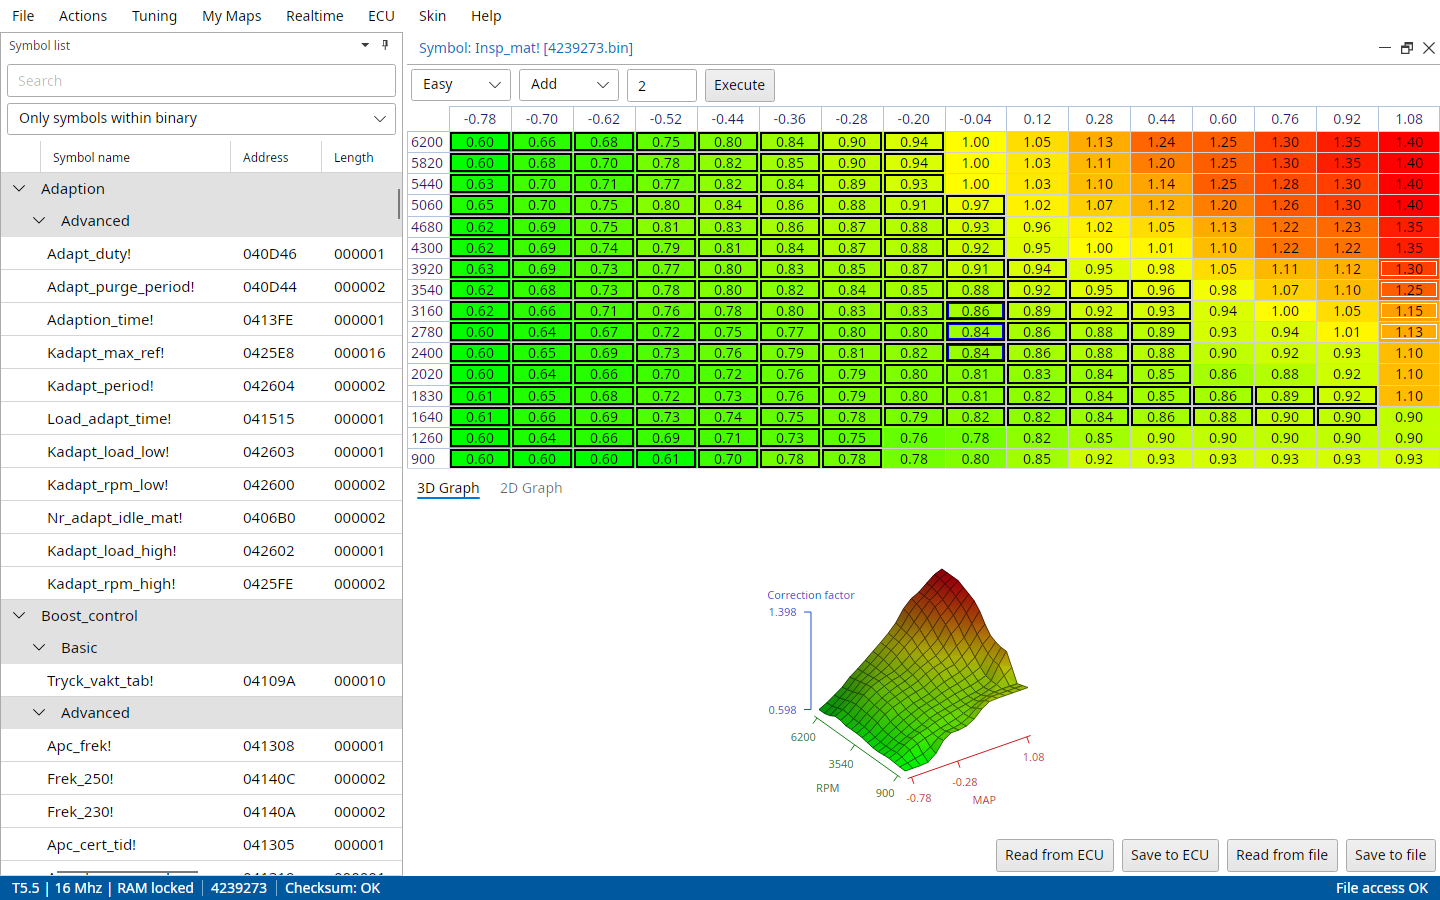
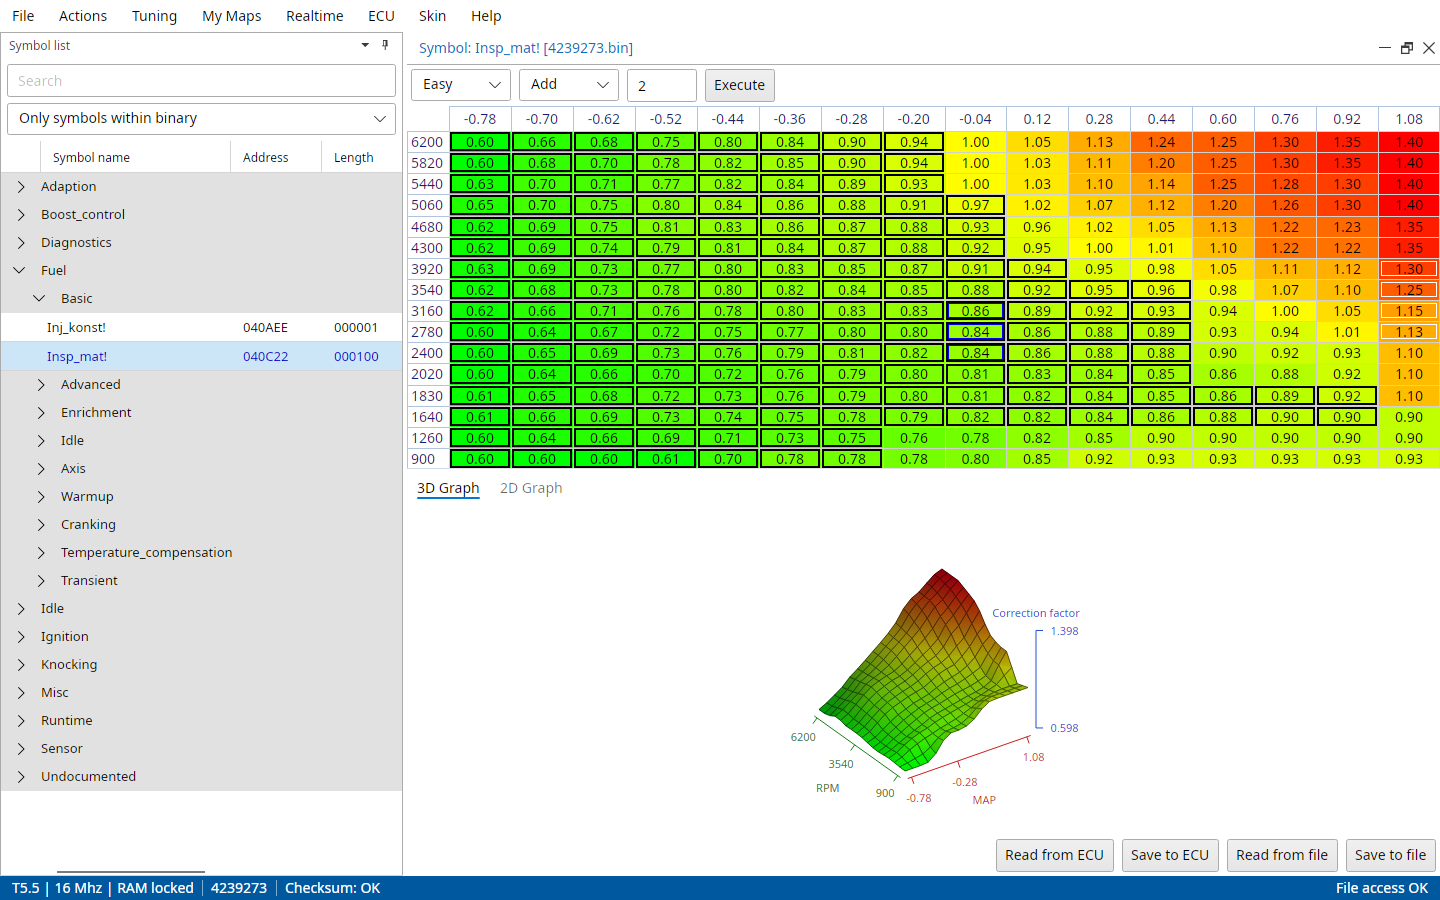
docs: README screenshots in the light and the dark skin

diff --git a/T8AppTest/Screenshots.cs b/T8AppTest/Screenshots.cs
@@ -3,6 +3,7 @@ using System.IO;
 using System.Linq;
 using Avalonia.Controls;
 using Avalonia.Headless;
+using Avalonia.Styling;
 using Avalonia.VisualTree;
 using Microsoft.VisualStudio.TestTools.UnitTesting;
 using SuiteApp.ViewModels;
@@ -25,33 +26,46 @@ namespace T8AppTest
             File.Copy(Path.Combine(Here(), "..", "T8Binaries", StockBin), file, true);
             s_session!.Dispatch(async () =>
             {
-                var vm = new T8MainWindowViewModel();
-                var window = new MainWindow { DataContext = vm, Width = 1440, Height = 900 };
-                window.Show();
-                Assert.IsTrue(await vm.OpenPlainFileAsync(file, true));
-
-                vm.OpenSymbolByName("IgnAbsCal.fi_NormalMAP");
-                Maximized(window, "mapviewer");
-
-                vm.ShowAirmassResultCommand.Execute(null);
-                Maximized(window, "airmass-table");
-                window.GetVisualDescendants().OfType<AirmassResultView>().Single().GetVisualDescendants().OfType<TabControl>().First().SelectedIndex = 1;
-                Maximized(window, "airmass-dyno");
-
-                var settings = new SettingsViewModel(vm.Settings);
-                // the default under the home folder, not whoever made the screenshots
-                settings.ProjectFolder = settings.ProjectFolder.Replace(Environment.GetFolderPath(Environment.SpecialFolder.UserProfile), "~");
-                foreach (var (w, name) in new (Window, string)[]
+                try
                 {
-                    (new FirmwareInfoWindow { DataContext = new FirmwareInfoViewModel(vm.FirmwareInfo()!) }, "firmware"),
-                    (new SettingsWindow { DataContext = settings }, "settings"),
-                })
-                {
-                    w.Show();
-                    Save(w, name);
-                    w.Close();
+                    // each shot in the light skin, then in the dark one (<name>-dark.png)
+                    foreach (var (theme, suffix) in new[] { (ThemeVariant.Light, ""), (ThemeVariant.Dark, "-dark") })
+                    {
+                        var vm = new T8MainWindowViewModel();
+                        var window = new MainWindow { DataContext = vm, Width = 1440, Height = 900 };
+                        window.Show();
+                        Assert.IsTrue(await vm.OpenPlainFileAsync(file, true));
+                        // after the window applied the skin from the settings
+                        Avalonia.Application.Current!.RequestedThemeVariant = theme;
+
+                        vm.OpenSymbolByName("IgnAbsCal.fi_NormalMAP");
+                        Maximized(window, "mapviewer" + suffix);
+
+                        vm.ShowAirmassResultCommand.Execute(null);
+                        Maximized(window, "airmass-table" + suffix);
+                        window.GetVisualDescendants().OfType<AirmassResultView>().Single().GetVisualDescendants().OfType<TabControl>().First().SelectedIndex = 1;
+                        Maximized(window, "airmass-dyno" + suffix);
+
+                        var settings = new SettingsViewModel(vm.Settings);
+                        // the default under the home folder, not whoever made the screenshots
+                        settings.ProjectFolder = settings.ProjectFolder.Replace(Environment.GetFolderPath(Environment.SpecialFolder.UserProfile), "~");
+                        foreach (var (w, name) in new (Window, string)[]
+                        {
+                            (new FirmwareInfoWindow { DataContext = new FirmwareInfoViewModel(vm.FirmwareInfo()!) }, "firmware"),
+                            (new SettingsWindow { DataContext = settings }, "settings"),
+                        })
+                        {
+                            w.Show();
+                            Save(w, name + suffix);
+                            w.Close();
+                        }
+                        window.Close();
+                    }
                 }
-                window.Close();
+                finally
+                {
+                    Avalonia.Application.Current!.RequestedThemeVariant = ThemeVariant.Default;
+                }
                 return true;
             }, default).GetAwaiter().GetResult();
         }

diff --git a/T7AppTest/Screenshots.cs b/T7AppTest/Screenshots.cs
@@ -3,6 +3,7 @@ using System.IO;
 using System.Linq;
 using Avalonia.Controls;
 using Avalonia.Headless;
+using Avalonia.Styling;
 using Avalonia.VisualTree;
 using Microsoft.VisualStudio.TestTools.UnitTesting;
 using SuiteApp.Views;
@@ -24,33 +25,46 @@ namespace T7AppTest
             File.Copy(Path.Combine(Here(), "..", "T7Binaries", "5168646.bin"), file, true);
             s_session!.Dispatch(async () =>
             {
-                var vm = new T7MainWindowViewModel();
-                var window = new MainWindow { DataContext = vm, Width = 1440, Height = 900 };
-                window.Show();
-                Assert.IsTrue(await vm.OpenPlainFileAsync(file, true));
-
-                vm.OpenSymbolByName("IgnNormCal.Map");
-                Maximized(window, "mapviewer");
-
-                vm.ShowAirmassResultCommand.Execute(null);
-                Maximized(window, "airmass-table");
-                window.GetVisualDescendants().OfType<AirmassResultView>().Single().GetVisualDescendants().OfType<TabControl>().First().SelectedIndex = 1;
-                Maximized(window, "airmass-dyno");
-
-                var settings = new SettingsViewModel(vm.Settings);
-                // the default under the home folder, not whoever made the screenshots
-                settings.ProjectFolder = settings.ProjectFolder.Replace(Environment.GetFolderPath(Environment.SpecialFolder.UserProfile), "~");
-                foreach (var (w, name) in new (Window, string)[]
+                try
                 {
-                    (new FirmwareInfoWindow { DataContext = vm.FirmwareInfo()! }, "firmware"),
-                    (new SettingsWindow { DataContext = settings }, "settings"),
-                })
-                {
-                    w.Show();
-                    Save(w, name);
-                    w.Close();
+                    // each shot in the light skin, then in the dark one (<name>-dark.png)
+                    foreach (var (theme, suffix) in new[] { (ThemeVariant.Light, ""), (ThemeVariant.Dark, "-dark") })
+                    {
+                        var vm = new T7MainWindowViewModel();
+                        var window = new MainWindow { DataContext = vm, Width = 1440, Height = 900 };
+                        window.Show();
+                        Assert.IsTrue(await vm.OpenPlainFileAsync(file, true));
+                        // after the window applied the skin from the settings
+                        Avalonia.Application.Current!.RequestedThemeVariant = theme;
+
+                        vm.OpenSymbolByName("IgnNormCal.Map");
+                        Maximized(window, "mapviewer" + suffix);
+
+                        vm.ShowAirmassResultCommand.Execute(null);
+                        Maximized(window, "airmass-table" + suffix);
+                        window.GetVisualDescendants().OfType<AirmassResultView>().Single().GetVisualDescendants().OfType<TabControl>().First().SelectedIndex = 1;
+                        Maximized(window, "airmass-dyno" + suffix);
+
+                        var settings = new SettingsViewModel(vm.Settings);
+                        // the default under the home folder, not whoever made the screenshots
+                        settings.ProjectFolder = settings.ProjectFolder.Replace(Environment.GetFolderPath(Environment.SpecialFolder.UserProfile), "~");
+                        foreach (var (w, name) in new (Window, string)[]
+                        {
+                            (new FirmwareInfoWindow { DataContext = vm.FirmwareInfo()! }, "firmware"),
+                            (new SettingsWindow { DataContext = settings }, "settings"),
+                        })
+                        {
+                            w.Show();
+                            Save(w, name + suffix);
+                            w.Close();
+                        }
+                        window.Close();
+                    }
                 }
-                window.Close();
+                finally
+                {
+                    Avalonia.Application.Current!.RequestedThemeVariant = ThemeVariant.Default;
+                }
                 return true;
             }, default).GetAwaiter().GetResult();
         }

diff --git a/T5AppTest/Screenshots.cs b/T5AppTest/Screenshots.cs
@@ -3,6 +3,7 @@ using System.IO;
 using System.Linq;
 using Avalonia.Controls;
 using Avalonia.Headless;
+using Avalonia.Styling;
 using Avalonia.VisualTree;
 using Microsoft.VisualStudio.TestTools.UnitTesting;
 using T5App.ViewModels;
@@ -23,29 +24,42 @@ namespace T5AppTest
             File.Copy(Path.Combine(Here(), "..", "T5Binaries", StockBin), file, true);
             s_session!.Dispatch(async () =>
             {
-                var vm = new T5MainWindowViewModel();
-                var window = new MainWindow { DataContext = vm, Width = 1440, Height = 900 };
-                window.Show();
-                Assert.IsTrue(await vm.OpenPlainFileAsync(file, true));
-
-                vm.OpenSymbolByName("Insp_mat!");
-                Maximized(window, "mapviewer");
-
-                var settings = new SettingsViewModel(vm.Settings, vm.T5Settings);
-                // the default under the home folder, not whoever made the screenshots
-                settings.ProjectFolder = settings.ProjectFolder.Replace(Environment.GetFolderPath(Environment.SpecialFolder.UserProfile), "~");
-                foreach (var (w, name) in new (Window, string)[]
+                try
                 {
-                    (T5ToolWindows.Dyno(window, vm), "dyno"),
-                    (new FirmwareOptionsWindow { DataContext = vm.FirmwareOptions()! }, "firmware"),
-                    (new SettingsWindow { DataContext = settings }, "settings"),
-                })
-                {
-                    w.Show();
-                    Save(w, name);
-                    w.Close();
+                    // each shot in the light skin, then in the dark one (<name>-dark.png)
+                    foreach (var (theme, suffix) in new[] { (ThemeVariant.Light, ""), (ThemeVariant.Dark, "-dark") })
+                    {
+                        var vm = new T5MainWindowViewModel();
+                        var window = new MainWindow { DataContext = vm, Width = 1440, Height = 900 };
+                        window.Show();
+                        Assert.IsTrue(await vm.OpenPlainFileAsync(file, true));
+                        // after the window applied the skin from the settings
+                        Avalonia.Application.Current!.RequestedThemeVariant = theme;
+
+                        vm.OpenSymbolByName("Insp_mat!");
+                        Maximized(window, "mapviewer" + suffix);
+
+                        var settings = new SettingsViewModel(vm.Settings, vm.T5Settings);
+                        // the default under the home folder, not whoever made the screenshots
+                        settings.ProjectFolder = settings.ProjectFolder.Replace(Environment.GetFolderPath(Environment.SpecialFolder.UserProfile), "~");
+                        foreach (var (w, name) in new (Window, string)[]
+                        {
+                            (T5ToolWindows.Dyno(window, vm), "dyno"),
+                            (new FirmwareOptionsWindow { DataContext = vm.FirmwareOptions()! }, "firmware"),
+                            (new SettingsWindow { DataContext = settings }, "settings"),
+                        })
+                        {
+                            w.Show();
+                            Save(w, name + suffix);
+                            w.Close();
+                        }
+                        window.Close();
+                    }
                 }
-                window.Close();
+                finally
+                {
+                    Avalonia.Application.Current!.RequestedThemeVariant = ThemeVariant.Default;
+                }
                 return true;
             }, default).GetAwaiter().GetResult();
         }

diff --git a/PORTING.md b/PORTING.md
@@ -628,6 +628,7 @@ Behaviour follows T7Suite's MapViewerEx and the DevExpress grid it used; only re
 
 ## Log
 
+- 2026-10-11: Left in the symbol list folds the nearest category above, as in a tree: on a symbol its own category, on a folded subcategory (T5) its parent; an unfolded category the grid folded already. On a symbol Left no longer moves to the column on its left. The README shows the suites in the light and the dark skin (`docs/screenshots/<suite>/<name>-dark.png`, from the same Screenshots tests).
 - 2026-10-11: A map opens in a window the size of its table, as T7Suite's Auto size new mapwindows sized its panels: as wide as the table (at least 400 px, T7Suite's minimum), the table at its natural height over a graph of at least eight table rows (the viewer splits its height by rows now, not in halves), at most the working size other documents open at (60 % × 80 % of the workspace, which every map took before, a single value too). In T5, T7 and T8 (issues #4, #5).
 - 2026-10-11: The category row the keyboard is on is highlighted like a selected row (Fluent's DataGrid gave a current group header no look) in every grouped list of T5, T7 and T8: the symbol list, compare results, part number lists, SID information (issue #3).
 - 2026-10-11: A save can no longer make an unpacked T7 bin look packed (it reopened with no symbols), and T8's layer-2 checksum keeps the byte sum or dword sum the file uses (TrionicCANLib `ChecksumT8`). Both found by txlogger's ecusymbol factory tests.

diff --git a/README.md b/README.md
@@ -27,6 +27,19 @@ The suites support the same interfaces as the flasher (T5Suite talks to the ECU'
 | J2534 (Beta) | vendor DLL (32-bit, from the registry) | vendor `.so` from `~/.passthru/*.json` | not supported |
 | Wideband lambda (realtime) | serial port | serial port | serial port |
 
+## Screenshots
+
+Every suite has a light and a dark skin (Skin menu, or the system's theme).
+
+| Light | Dark |
+|---|---|
+| ![T7Suite map viewer](docs/screenshots/t7/mapviewer.png) | ![T7Suite map viewer, dark](docs/screenshots/t7/mapviewer-dark.png) |
+| ![T5Suite map viewer](docs/screenshots/t5/mapviewer.png) | ![T5Suite map viewer, dark](docs/screenshots/t5/mapviewer-dark.png) |
+| ![T7Suite airmass result](docs/screenshots/t7/airmass-table.png) | ![T7Suite airmass result, dark](docs/screenshots/t7/airmass-table-dark.png) |
+| ![T8Suite dyno graph](docs/screenshots/t8/airmass-dyno.png) | ![T8Suite dyno graph, dark](docs/screenshots/t8/airmass-dyno-dark.png) |
+
+T7Suite's ignition map, T5Suite's fuel map, the airmass result of T7Suite and T8Suite's dyno graph, all on stock binaries. The firmware and settings dialogs of each suite are in [docs/screenshots](docs/screenshots); `bash docs/screenshots/generate.sh` renders them all again from the apps.
+
 ## System Requirements
 - Windows 10 or Windows 11. The setup brings its own .NET runtime and the Visual C++ 2010 runtime the Lawicel driver needs.
 - Linux x64 or arm64 with a desktop (X11 or XWayland).
